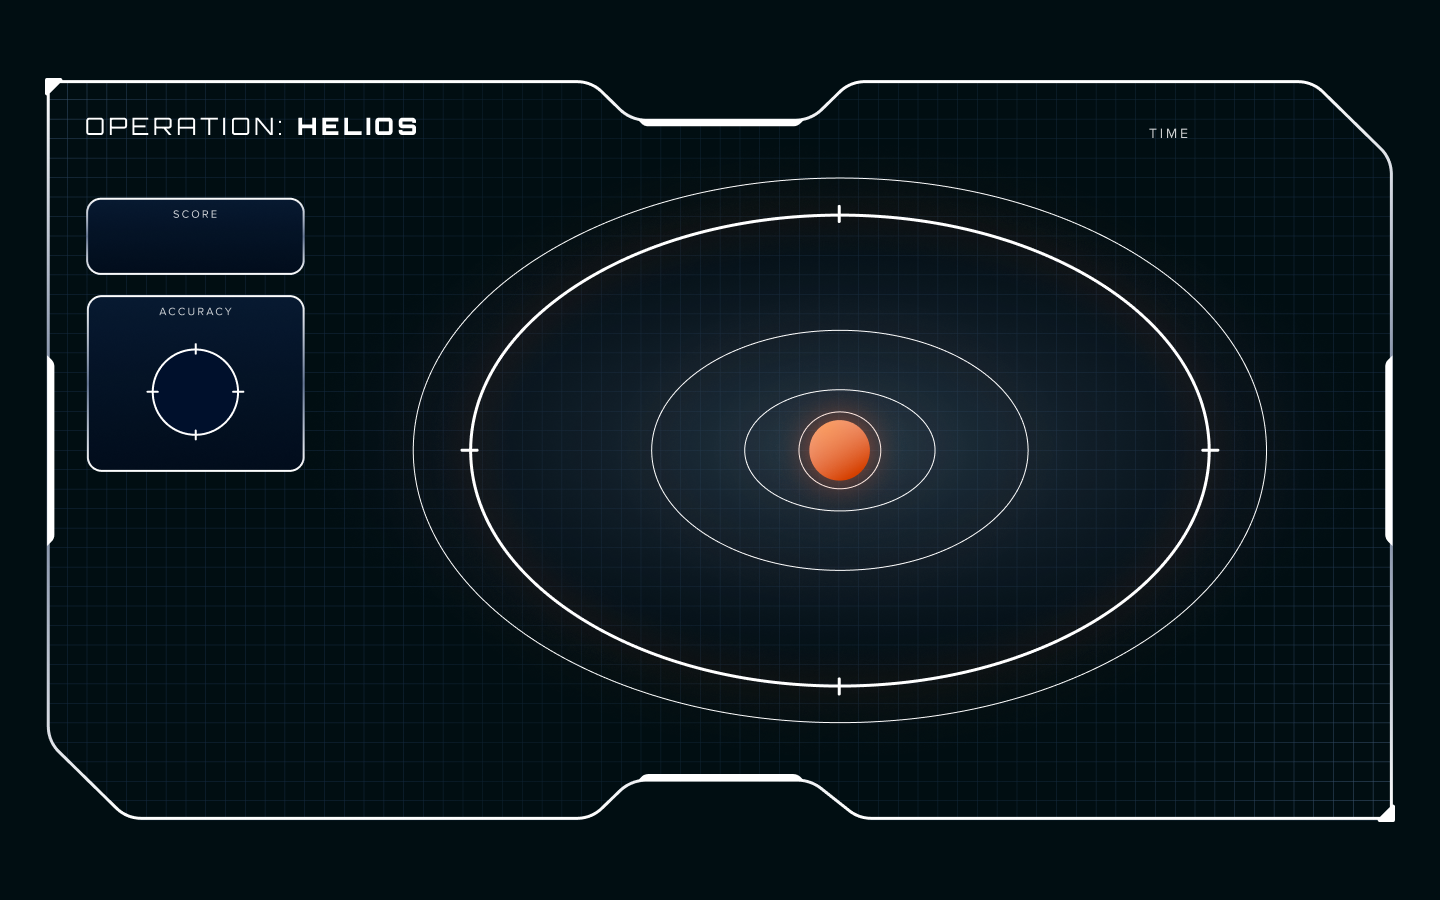
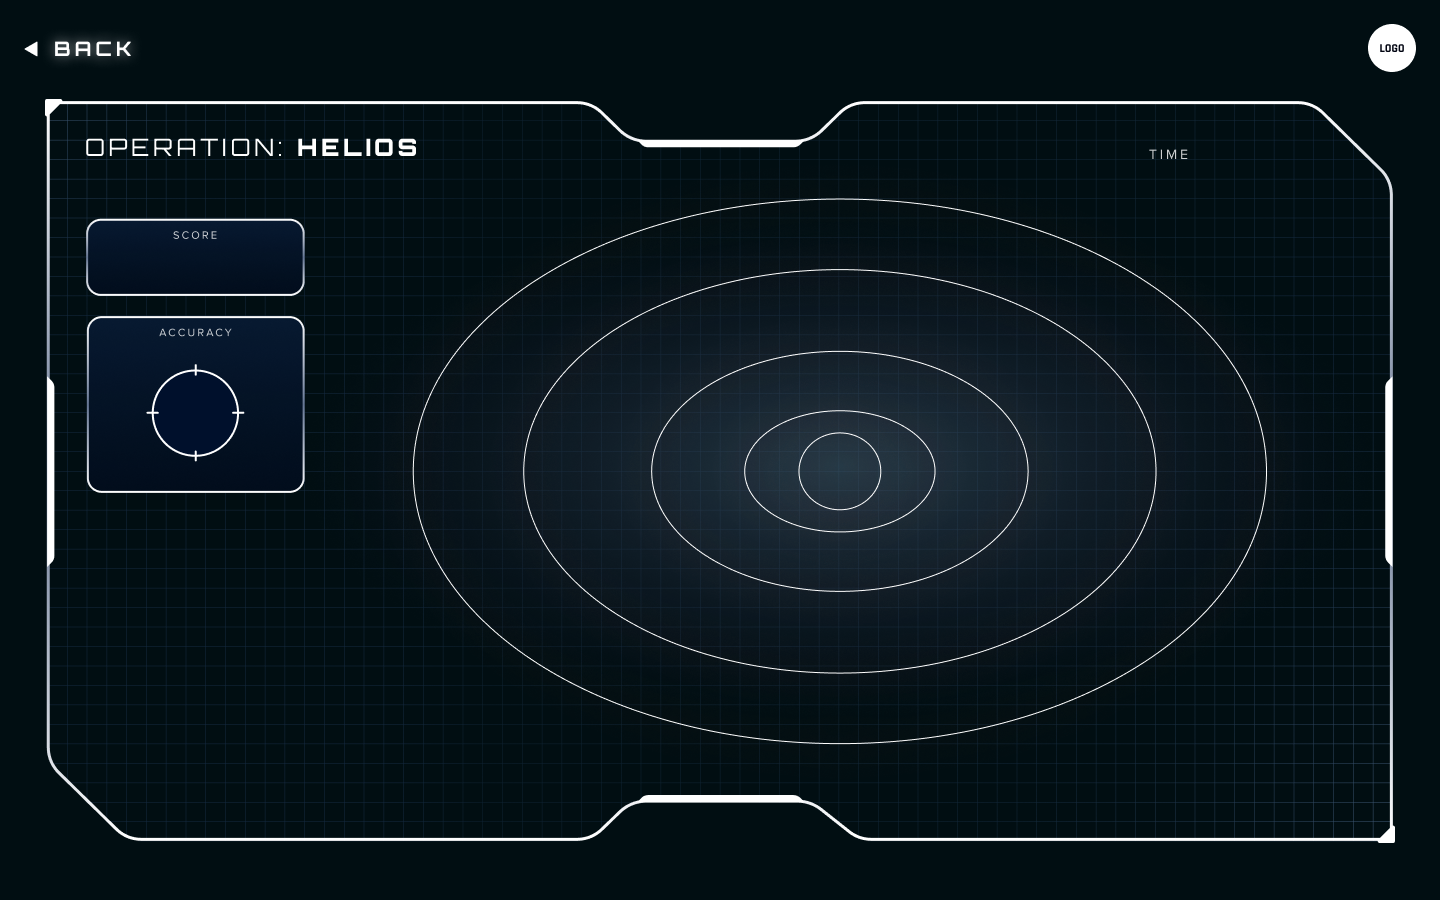
finished

diff --git a/src.js b/src.js
@@ -5,16 +5,16 @@ ctx.canvas.width = window.innerWidth;
 ctx.canvas.height = window.innerHeight;
 
 var stopped = false;
-var time = 60;
+var time = 30;
 var frame = 0;
-const CENTER_X = 1107;
-const CENTER_Y = 540;
+const CENTER_X = 1109;
+const CENTER_Y = 565;
 var greenRadiusX = 243;
 var greenRadiusY = 417;
 var button = document.getElementById('button');
 
 var score = 0;
-var timer = '01:00';
+var timer = '00:30';
 var accuracy = '0%';
 
 let setter = 1;
@@ -32,7 +32,7 @@ const drawOvalShape = (ctx, center_x, center_y, radiusX, radiusY, strokeColor, a
     ctx.strokeStyle = strokeColor;
     ctx.fillStyle = fillColor;
     ctx.globalAlpha = alpha;
-    ctx.lineWidth = 2;
+    ctx.lineWidth = 4;
     ctx.ellipse(center_x, center_y, radiusX, radiusY,  90 * Math.PI/180, 0, 2 * Math.PI);
     ctx.stroke();
     ctx.fill();
@@ -44,10 +44,12 @@ const drawOvalShape = (ctx, center_x, center_y, radiusX, radiusY, strokeColor, a
 
 const drawRectShape = (ctx, x, y, width, height, color) => {
     ctx.beginPath();
-    ctx.strokeColor = color;
-    ctx.lineWidth = 2;
+    ctx.strokeColor = 'white' ;
+    ctx.fillStyle = color;
+    ctx.lineWidth = 5;
     ctx.rect(x, y, width, height);
     ctx.stroke();
+    ctx.fill();
     ctx.closePath()
 }
 
@@ -76,8 +78,8 @@ const Update = () => {
         time--;
     }
 
-    if(time == 60){
-        timer = '01:00'
+    if(time == 30){
+        timer = '00:30'
     } else if(time < 60 && time >= 10){
         timer = `00:${time}`;
     } else if(time < 10 && time > 0){
@@ -97,32 +99,36 @@ const Draw = () => {
     const bg = new Image();
     bg.src = "assets/bg.png";
     ctx.drawImage(bg,0,0,1900,1080);
+    const sun = new Image();
 
 
     if(score == 0){
-        DrawText(ctx, 210, 310, 'Orbitron', 'normal', 40, 'white', '000');
+        DrawText(ctx, 210, 335, 'Orbitron', 'normal', 40, 'white', '000');
     } else {
-        DrawText(ctx, 210, 310, 'Orbitron', 'normal', 40, 'white', score);
+        DrawText(ctx, 210, 335, 'Orbitron', 'normal', 40, 'white', score);
     }
-    DrawText(ctx, 1590, 170, 'Orbitron', 'normal', 30, 'white', timer);   // drawing the timer
+    DrawText(ctx, 1590, 195, 'Orbitron', 'normal', 30, 'white', timer);   // drawing the timer
 
     if(accuracy == '0' + '%'){
-    DrawText(ctx, 225, 480, 'Orbitron', 'normal', 25, 'white', '00%');   // drawing the accuracy 
+    DrawText(ctx, 225, 505, 'Orbitron', 'normal', 25, 'white', '00%');   // drawing the accuracy 
     }
     else{
-        DrawText(ctx, 225, 480, 'Orbitron', 'normal', 25, 'white', accuracy);
+        DrawText(ctx, 225, 505, 'Orbitron', 'normal', 25, 'white', accuracy);
     }
 
     // drawing for the circles
     drawOvalShape(ctx, CENTER_X, CENTER_Y, player.radiusX, player.radiusY, "white", 1, "transparent");
-    drawRectShape(ctx, CENTER_X - player.radiusY - 7, CENTER_Y, 15, 1);
-    drawRectShape(ctx, CENTER_X + player.radiusY - 7, CENTER_Y, 15, 1);
-    drawRectShape(ctx, CENTER_X, CENTER_Y - player.radiusX - 7, 1, 15);
-    drawRectShape(ctx, CENTER_X, CENTER_Y + player.radiusX - 7 , 1, 15); 
+    drawRectShape(ctx, CENTER_X - player.radiusY - 7, CENTER_Y, 15, 1, 'white');
+    drawRectShape(ctx, CENTER_X + player.radiusY - 7, CENTER_Y, 15, 1, 'white');
+    drawRectShape(ctx, CENTER_X, CENTER_Y - player.radiusX - 7, 1, 15, 'white');
+    drawRectShape(ctx, CENTER_X, CENTER_Y + player.radiusX - 7 , 1, 15, 'white'); 
 
 
     drawOvalShape(ctx, CENTER_X, CENTER_Y, greenRadiusX, greenRadiusY, "white", .1, "green"); // movable green oval
     drawOvalShape(ctx, CENTER_X, CENTER_Y, 145, 249, "white", .09, "blue"); // white one before green
+
+    sun.src = "assets/sun.png";
+    ctx.drawImage(sun, 1034, 490, 150, 150);
     
  }
 
@@ -131,7 +137,6 @@ const CheckScore = () => {
 
 if(player.radiusY < 249 && player.radiusY >= 0){
    // console.log("HOT ZONE");
-    score += 100;
     accuracyPercentage = Math.ceil((player.radiusY / (249)) * 100);  // compares radius of the white to the minGreenRadiusY
     accuracy = accuracyPercentage + '%';
 }
@@ -151,7 +156,6 @@ else{
    // console.log("COLD ZONE");
    accuracyPercentage = Math.ceil((greenRadiusY / player.radiusY) * 100); // player radius divided by max greenRadiusY
    accuracy = accuracyPercentage + '%';
-    score += 100;
 }
 }
 

diff --git a/simplepage.html b/simplepage.html
@@ -23,16 +23,16 @@
   position: relative;
   left:80%;
   font-family: 'Orbitron';
-  font-size: 40px;
+  font-size: 30px;
   border-radius: 100px ;
   height: 150px ;
   width: 150px ;
-  opacity: .5;
+  opacity: 1;
   margin-top: 40%;
 }
 
 #button:hover{
-    opacity: .9;
+    opacity: .5;
 }
 
 @media only screen and (min-height: 700px) and (max-height: 800px){
@@ -40,7 +40,7 @@
   position: relative;
   left:80%;
   font-family: 'Orbitron';
-  font-size: 25px;
+  font-size: 20px;
   border-radius: 100px ;
   height: 135px ;
   width: 135px ;
@@ -49,7 +49,7 @@
 }
 
 #button:hover{
-    opacity: .9;
+    opacity: .5;
 }
 
 }
@@ -69,11 +69,11 @@
         position: relative;
   left:80%;
   font-family: 'Orbitron';
-  font-size: 35px;
+  font-size: 30px;
   border-radius: 90px ;
   height: 120px ;
   width: 120px ;
-  opacity: .5;
+  opacity: 1;
   margin-top: 38%;
 }
 
